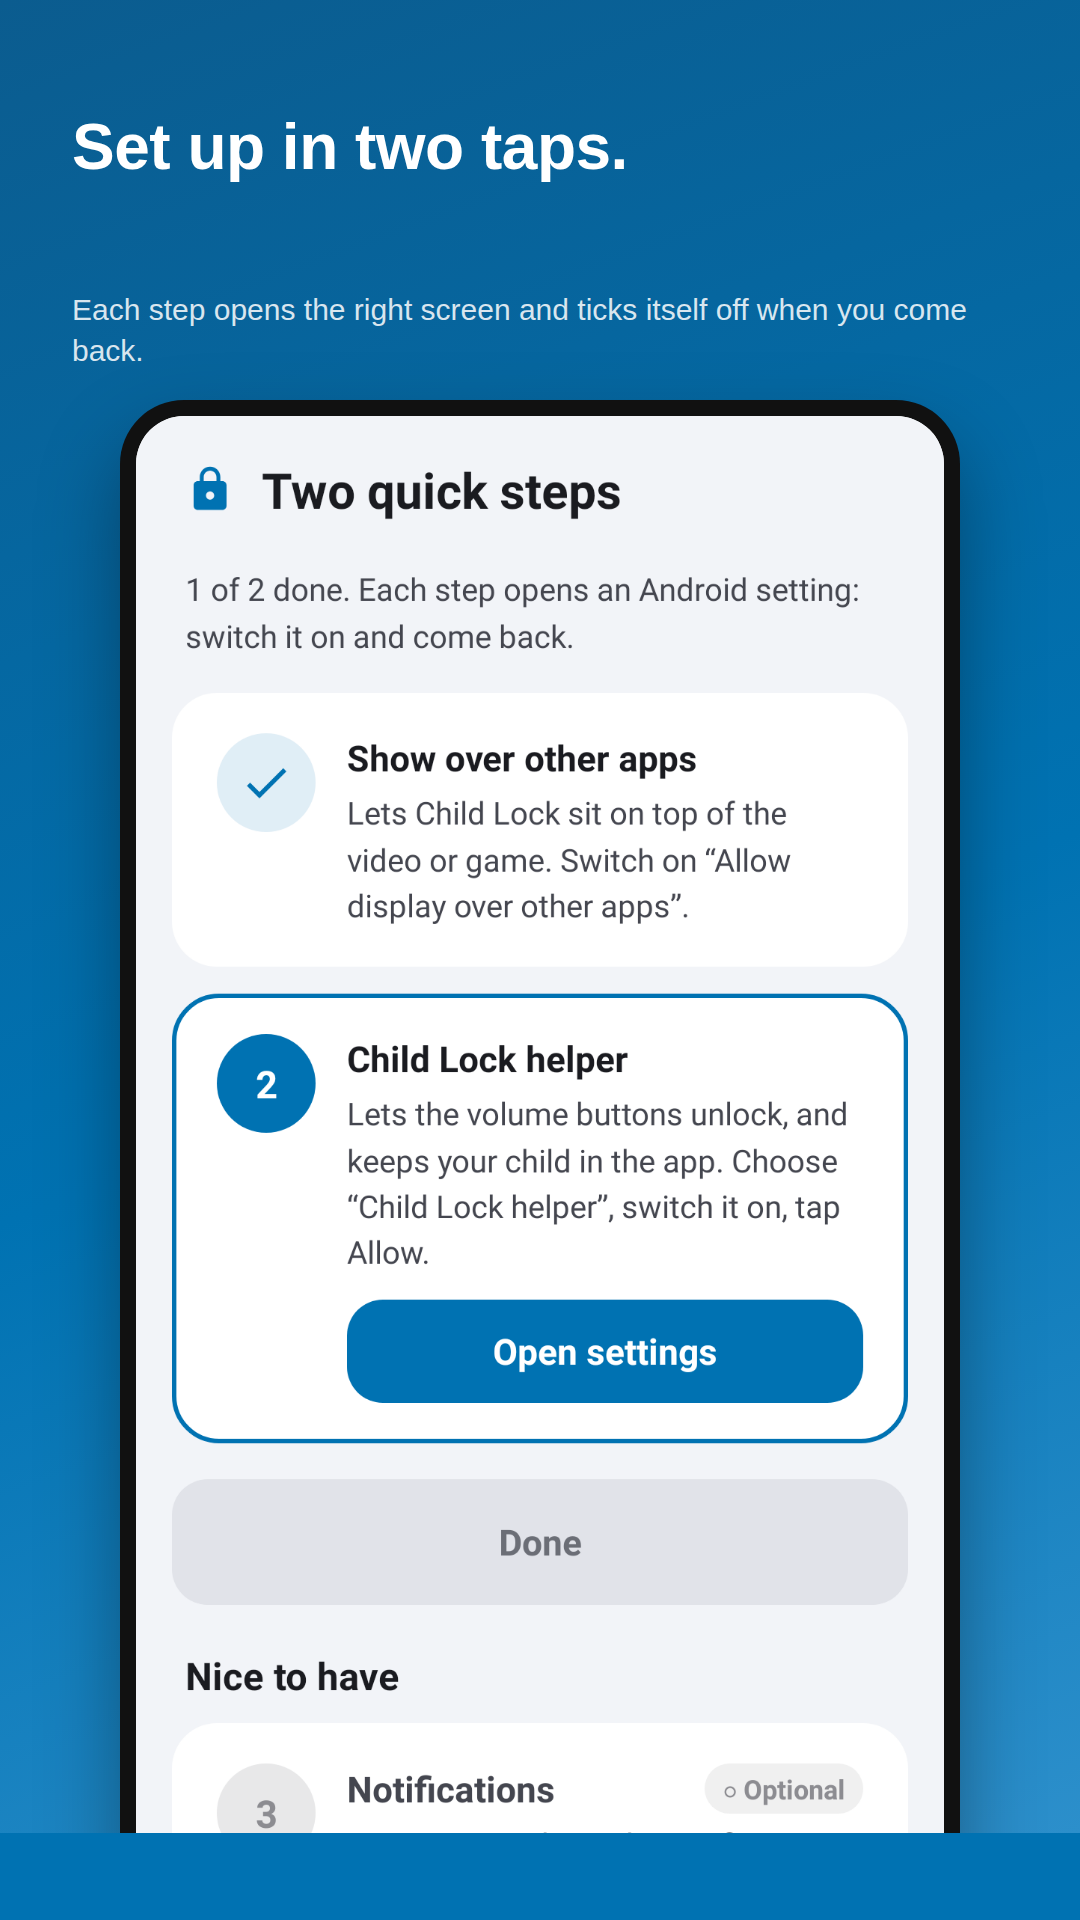
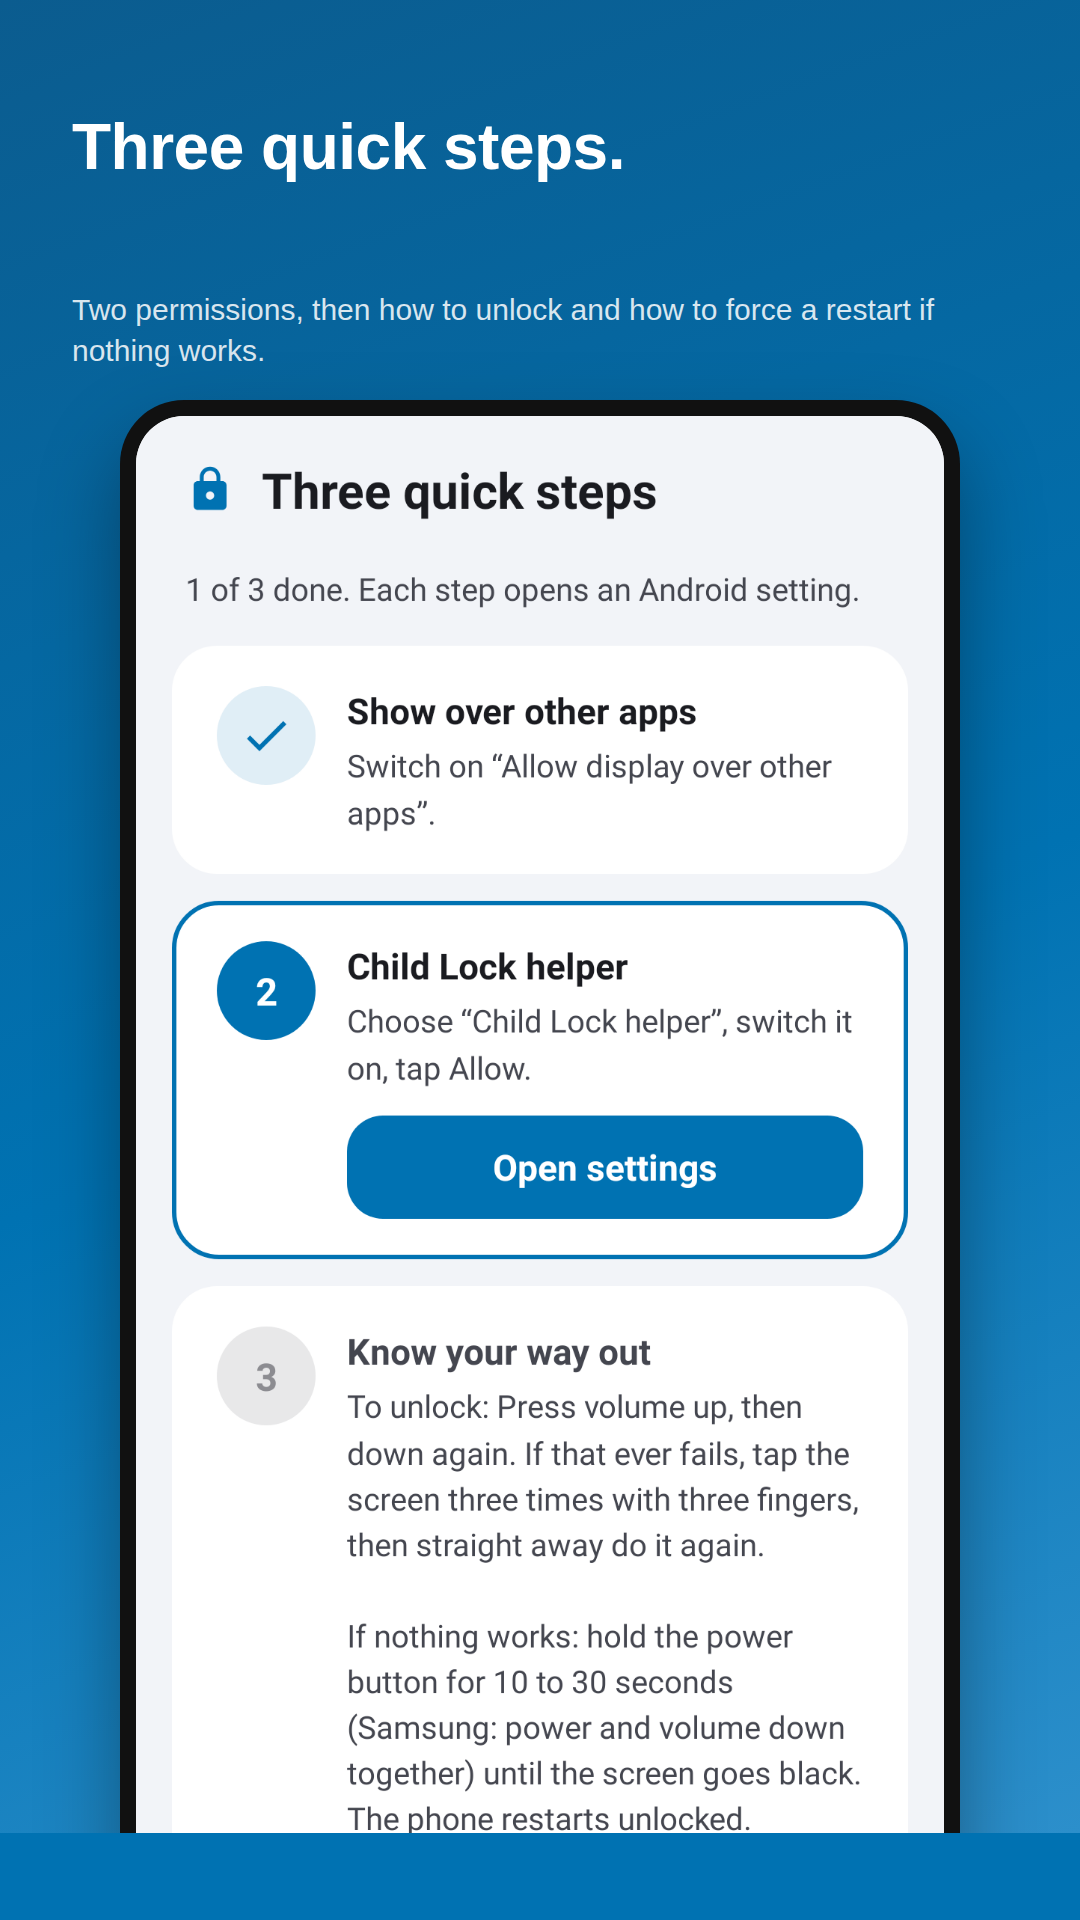
Release preparation: fresh store assets, accurate listing, release checks
Store screenshots are regenerated from the current screens (tile home,
three-step setup) and the captions match. The listing describes the
auto-lock moments, the five-second countdown, several unlocks at once and
the three-step assistant as they now are.

RELEASING.md gains the CI-backed per-release steps, how to regenerate the
screenshots, what the accessibility declaration recording should show, and
a hardware pass that unit tests cannot cover: system swipes, every unlock
the settings do not show, the three-finger tap, auto-lock on a real video,
and a forced restart while locked.

Claude-Session: https://claude.ai/code/session_017x4SqPJMNEbvyYMGdnba8o

diff --git a/RELEASING.md b/RELEASING.md
@@ -27,9 +27,32 @@ workflow's release job produces a signed bundle.
 
 1. Bump `versionName` in `app/build.gradle.kts`. The version code is derived
    from the commit count in CI, so it always increases.
-2. `./gradlew testPlayDebugUnitTest lintPlayRelease bundlePlayRelease`
-3. Upload `app/build/outputs/bundle/playRelease/app-play-release.aab`.
-4. Fill in release notes. Tag the commit: `git tag v1.0.0 && git push --tags`.
+2. Green CI on the commit: `testSideloadDebugUnitTest testPlayDebugUnitTest`,
+   `lintPlayDebug lintPlayRelease`, `assembleSideloadDebug assemblePlayRelease`
+   all run on every push. Locally the same is
+   `./gradlew testPlayDebugUnitTest lintPlayRelease bundlePlayRelease`.
+3. Regenerate the store screenshots if a screen changed:
+   `CHILDLOCK_SHOTS=store/assets/src ./gradlew testPlayDebugUnitTest --tests '*ScreenshotTest*'`
+   then `scripts/render-store-assets.sh`.
+4. Tag the commit on `main`: `git tag v1.0.0 && git push --tags`. The
+   `release` job signs `bundlePlayRelease` with the CI secrets and uploads the
+   bundle as the `childlock-play-release-bundle` artifact of that run.
+5. Download the artifact, upload the `.aab` to Play Console (Internal testing
+   first), fill in release notes.
+
+## Hardware pass before a release
+
+Unit tests cannot see the system gesture layer, so on a real phone with
+gesture navigation, once per release:
+
+- Lock with the volume pattern; swipe from the top, bottom and both sides.
+  Nothing may land. Pull the shade: it closes at once.
+- Try every unlock the settings do NOT show (corners, PIN, notification
+  button when switched off). None may work. Then the ones that are shown.
+- Three-finger triple tap once (stays locked), twice (unlocks).
+- Add a video app under Auto-lock, play a video full screen, wait 5 s.
+- Force a restart while locked (power for 10 to 30 s; Samsung power + volume
+  down). The phone must come back unlocked.
 
 ## First submission checklist
 
@@ -39,6 +62,9 @@ workflow's release job produces a signed bundle.
 - Declarations completed: accessibility service, foreground service
   (special use, with a short screen recording), display over other apps,
   data safety (nothing collected), target audience (not for children), ads (none).
+  The screen recording should show: the setup guide's disclosure, arming from
+  the app, the badge while locked, a swipe achieving nothing, the volume
+  pattern unlocking. Under a minute is enough.
 - Closed testing: Play requires new personal developer accounts to run a
   closed test with at least 12 testers for 14 days before production. Use it
   to cover Samsung, Pixel and one Xiaomi.

diff --git a/store/listing.md b/store/listing.md
@@ -31,7 +31,7 @@ WHAT STOPS WORKING FOR THE CHILD
 The power button still works, and an incoming call unlocks the phone so you can answer it.
 
 AUTO-LOCK
-Choose the apps you hand over and Child Lock switches itself on a few seconds after one of them opens. Switch away or press the pattern to cancel.
+Choose the apps you hand over and the moment that should lock them: a video call connecting, a video going full screen, anything playing, or simply opening. A five-second countdown gives you time to hand over; switch away or press the pattern to cancel. Unlock, and it locks again by itself only if the same moment ends and happens again.
 
 MADE TO BE TRUSTED
 • No ads, no accounts, no analytics, no internet permission
@@ -41,10 +41,10 @@ MADE TO BE TRUSTED
 • Colour-blind-safe design: every state has a shape and a word, never colour alone
 
 OTHER WAYS TO UNLOCK
-Prefer touch? Hold one finger in each of two opposite corners for a moment, or hold the badge and type a PIN. Choose what suits you.
+Prefer touch? Hold one finger in each of two opposite corners for a moment, hold the badge and type a PIN, or hold both volume buttons. Allow any combination; only what you switch on can unlock.
 
 SETUP
-A short assistant walks you through two permissions: "Display over other apps", which is how touches are blocked, and the Child Lock helper accessibility service, which handles the volume pattern, swipe blocking and auto-lock. Both are explained before you enable them.
+A short assistant walks you through three steps: "Display over other apps", which is how touches are blocked; the Child Lock helper accessibility service, which handles the volume pattern, swipe blocking and auto-lock; and a page that shows how to unlock and how to force a restart if nothing else works. Every permission is explained before you enable it.
 
 Child Lock uses Android's accessibility service as a parental control, not as an accessibility aid. It observes volume-button presses and which app is in front, and while locked it blocks navigation. It never reads screen content.
 
